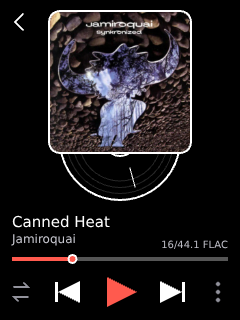
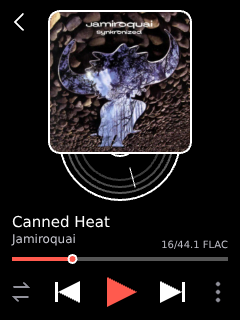
Make Vinyl grooves clearer and crisper

Changed region(s): [[0.2917, 0.4688, 0.7292, 0.625]]

diff --git a/previews/vinyl-layout/style.css b/previews/vinyl-layout/style.css
@@ -1,2 +1,2 @@
 :root{color-scheme:dark;--bg:#101014;--panel:#19191f;--line:#2c2c35;--text:#f4f1ea;--muted:#9b9ba7;--accent:#ff5a4e;--canvas-w:240px;--canvas-h:320px;--zoom:1}
-*{box-sizing:border-box}body{margin:0;background:radial-gradient(1100px 650px at 78% 12%,#24202a 0,transparent 60%),var(--bg);color:var(--text);font-family:Inter,ui-sans-serif,system-ui,-apple-system,"Segoe UI",sans-serif;-webkit-font-smoothing:antialiased}button,select,input{font:inherit}button{cursor:pointer}button:focus-visible,select:focus-visible,input:focus-visible{outline:2px solid #ffad8e;outline-offset:3px}.studio{max-width:1180px;margin:auto;padding:28px 32px 20px}.masthead{display:flex;align-items:center;justify-content:space-between;border-bottom:1px solid var(--line);padding-bottom:22px}.brand{display:flex;align-items:center;gap:9px;color:var(--text);text-decoration:none;font-size:21px;font-weight:750;letter-spacing:-.8px}.brand-mark{display:grid;place-items:center;width:28px;height:28px;border-radius:9px;background:var(--text);color:#15151a;font-size:23px;font-style:italic}.brand-sub{font-size:13px;color:var(--muted);font-weight:450;letter-spacing:0}.pill-status{display:flex;align-items:center;gap:7px;border:1px solid var(--line);border-radius:99px;padding:7px 11px;color:#c9c6cf;font-size:11px}.pill-status i{width:6px;height:6px;background:#9dccae;border-radius:50%;box-shadow:0 0 10px #9dccae66}.intro{padding:40px 0 30px;max-width:640px}.eyebrow{font-size:10px;letter-spacing:2.2px;text-transform:uppercase;color:#c6a994;margin:0 0 15px}h1{font-size:clamp(38px,5vw,62px);line-height:.99;letter-spacing:-2.7px;font-weight:620;margin:0}h1 em{font-family:Georgia,serif;font-weight:400;color:#c9b8aa}.lede{color:var(--muted);font-size:14px;line-height:1.7;max-width:490px;margin:20px 0 0}.workbench{display:grid;grid-template-columns:minmax(420px,1fr) 310px;gap:24px;align-items:start}.stage{min-height:690px;border:1px solid var(--line);border-radius:20px;background:linear-gradient(145deg,#1b1b22,#141419);padding:20px 24px;display:flex;flex-direction:column;align-items:center;overflow:auto}.stage-top{width:100%;display:flex;justify-content:space-between;color:#b7b4bf;font-size:10px;letter-spacing:1px;text-transform:uppercase;margin-bottom:26px}.device-wrap{width:calc(var(--canvas-w)*var(--zoom));height:calc(var(--canvas-h)*var(--zoom));flex:none;position:relative}.device{width:var(--canvas-w);height:var(--canvas-h);transform:scale(var(--zoom));transform-origin:top left;border-radius:16px;overflow:hidden;box-shadow:0 0 0 7px #08080b,0 0 0 8px #3a3942,0 26px 60px #0009}.screen{position:relative;width:var(--canvas-w);height:var(--canvas-h);overflow:hidden;background:#000;color:#fff;font-family:Arial,sans-serif}.back{position:absolute;z-index:8;left:4px;top:4px;width:36px;height:36px;border:0;background:transparent;color:#fff;padding:9px;opacity:.8}.back svg{width:100%;height:100%;fill:none;stroke:currentColor;stroke-width:2.4;stroke-linecap:round;stroke-linejoin:round}.record{position:absolute;border:2px solid #fff;border-radius:50%;background:#000;z-index:1}.groove{position:absolute;border:1px solid #262626;border-radius:50%;left:50%;top:50%;transform:translate(-50%,-50%)}.record-label{position:absolute;left:50%;top:50%;transform:translate(-50%,-50%);border:2px solid #fff;border-radius:50%;background:#000}.shine{position:absolute;transform:rotate(-15deg);transform-origin:center;background:#fff;border-radius:999px}.sleeve{position:absolute;z-index:2;border:2px solid #fff;border-radius:12px;overflow:hidden;background:#17171b;display:grid;place-items:center}.sleeve img{display:block;width:100%;height:100%;object-fit:cover;border-radius:9px}.art-fallback{font-size:62px;color:#8b8b95}.deck{position:absolute;z-index:4;left:0;right:0;bottom:0;padding:4px 12px 4px;display:flex;flex-direction:column;gap:4px;background:transparent}.info{display:flex;justify-content:space-between;gap:6px;height:38px;flex:none}.names{min-width:0;flex:1}.song-title{font-size:15px;line-height:18px;white-space:nowrap;overflow:hidden;text-overflow:ellipsis}.song-artist{font-size:12px;line-height:16px;color:#c7c7cf;white-space:nowrap;overflow:hidden;text-overflow:ellipsis}.side{display:flex;flex-direction:column;align-items:flex-end;flex:none;max-width:100px}.fav{width:34px;height:26px;padding:5px 8px;border:0;background:none;color:#aaa}.fav svg{width:100%;height:100%;fill:none;stroke:currentColor;stroke-width:1.7;stroke-linejoin:round}.fav[aria-pressed=true]{color:#ffd66b}.fav[aria-pressed=true] svg{fill:currentColor}.format{font-size:10px;line-height:12px;color:#bdbdc6;white-space:nowrap}.seek-row{height:10px;display:flex;align-items:center}#seek{appearance:none;width:100%;height:4px;border-radius:4px;background:linear-gradient(to right,var(--accent) 0 28%,#555 28% 100%);margin:0;cursor:pointer}#seek::-webkit-slider-thumb{appearance:none;width:10px;height:10px;border:2px solid #fff;border-radius:50%;background:var(--accent);box-shadow:0 1px 4px #0008}#seek::-moz-range-thumb{width:7px;height:7px;border:2px solid #fff;border-radius:50%;background:var(--accent)}.transport{height:44px;display:flex;align-items:center;justify-content:center;gap:8px;position:relative}.transport button{border:0;background:none;color:#fff;display:grid;place-items:center;padding:0}.transport svg{width:28px;height:28px;fill:currentColor;stroke:currentColor;stroke-width:.5;stroke-linejoin:round}.transport .skip{width:42px;height:42px}.transport .play{width:44px;height:44px;color:var(--accent)}.transport .play svg{width:34px;height:34px}.pause-icon{display:none}.play[aria-pressed=true] .play-icon{display:none}.play[aria-pressed=true] .pause-icon{display:block}.transport .corner{position:absolute;width:36px;height:36px;color:#92929c}.transport .corner svg{width:23px;height:23px;fill:none;stroke:currentColor;stroke-width:1.8;stroke-linecap:round;stroke-linejoin:round}.transport .corner:last-child{right:0}.transport .corner:last-child svg{fill:currentColor;stroke:none}.transport .corner:first-child{left:0}.transport .corner[data-mode="1"],.transport .corner[data-mode="2"]{color:var(--accent)}.toast{position:absolute;z-index:10;left:16px;right:16px;bottom:58px;padding:9px 10px;border:1px solid #444;border-radius:9px;background:#1c1c23ee;color:#eee;text-align:center;font-size:11px;opacity:0;transform:translateY(5px);transition:.18s;pointer-events:none}.toast.show{opacity:1;transform:none}.stage-note{color:#858590;font-size:11px;line-height:1.5;text-align:center;margin:28px 0 0;max-width:340px}.panel{border:1px solid var(--line);border-radius:20px;background:#19191fe6;overflow:hidden}.panel-block{padding:22px;border-bottom:1px solid var(--line)}.panel-block:last-child{border:0}.panel h2{font-size:10px;letter-spacing:1.8px;text-transform:uppercase;color:#b6a899;font-weight:600;margin:0 0 15px}.segmented{display:grid;grid-template-columns:1fr 1fr;gap:5px;padding:4px;background:#101014;border:1px solid #292932;border-radius:11px}.segmented button{border:0;border-radius:7px;background:transparent;color:#9999a5;padding:10px 4px;font-size:12px}.segmented button small{display:block;font-size:9px;margin-top:4px;opacity:.7}.segmented button.active{background:#303039;color:#fff;box-shadow:0 1px 4px #0005}.zoom-line{display:flex;align-items:center;justify-content:space-between;gap:8px;margin-top:16px;color:#aaaab5;font-size:11px}.zoom-line select{max-width:165px;background:#111116;color:#ddd;border:1px solid #34343e;border-radius:7px;padding:7px;font-size:10px}.try-grid{display:grid;grid-template-columns:1fr 1fr;gap:8px}.action{border:1px solid #36363f;border-radius:9px;background:#222229;color:#ddd;padding:11px 6px;font-size:11px;transition:.15s}.action:hover{background:#303039;border-color:#555560}.hint{font-size:10px;line-height:1.6;color:#858590;margin:13px 0 0}.spec dl{margin:0}.spec dl div{margin:0 0 13px}.spec dl div:last-child{margin:0}.spec dt{font-size:10px;color:#858590;margin-bottom:4px}.spec dd{font-size:12px;color:#d5d2da;margin:0;line-height:1.4}footer{color:#666671;font-size:10px;text-align:center;padding:24px 0 0}@media(max-width:850px){.studio{padding:20px}.workbench{grid-template-columns:1fr}.stage{min-height:620px}.panel{display:grid;grid-template-columns:1fr 1fr}.panel-block{border-bottom:0;border-right:1px solid var(--line)}.panel-block:last-child{grid-column:1/-1;border-top:1px solid var(--line)}.intro{padding-top:30px}}@media(max-width:520px){.studio{padding:16px}.brand-sub,.pill-status{display:none}.workbench{display:block}.stage{padding:18px 12px;min-height:570px;border-radius:15px}.panel{display:block;margin-top:16px;border-radius:15px}.panel-block{border-right:0;border-bottom:1px solid var(--line)}h1{letter-spacing:-1.8px}.masthead{padding-bottom:16px}}@media(prefers-reduced-motion:reduce){*{transition:none!important}}
+*{box-sizing:border-box}body{margin:0;background:radial-gradient(1100px 650px at 78% 12%,#24202a 0,transparent 60%),var(--bg);color:var(--text);font-family:Inter,ui-sans-serif,system-ui,-apple-system,"Segoe UI",sans-serif;-webkit-font-smoothing:antialiased}button,select,input{font:inherit}button{cursor:pointer}button:focus-visible,select:focus-visible,input:focus-visible{outline:2px solid #ffad8e;outline-offset:3px}.studio{max-width:1180px;margin:auto;padding:28px 32px 20px}.masthead{display:flex;align-items:center;justify-content:space-between;border-bottom:1px solid var(--line);padding-bottom:22px}.brand{display:flex;align-items:center;gap:9px;color:var(--text);text-decoration:none;font-size:21px;font-weight:750;letter-spacing:-.8px}.brand-mark{display:grid;place-items:center;width:28px;height:28px;border-radius:9px;background:var(--text);color:#15151a;font-size:23px;font-style:italic}.brand-sub{font-size:13px;color:var(--muted);font-weight:450;letter-spacing:0}.pill-status{display:flex;align-items:center;gap:7px;border:1px solid var(--line);border-radius:99px;padding:7px 11px;color:#c9c6cf;font-size:11px}.pill-status i{width:6px;height:6px;background:#9dccae;border-radius:50%;box-shadow:0 0 10px #9dccae66}.intro{padding:40px 0 30px;max-width:640px}.eyebrow{font-size:10px;letter-spacing:2.2px;text-transform:uppercase;color:#c6a994;margin:0 0 15px}h1{font-size:clamp(38px,5vw,62px);line-height:.99;letter-spacing:-2.7px;font-weight:620;margin:0}h1 em{font-family:Georgia,serif;font-weight:400;color:#c9b8aa}.lede{color:var(--muted);font-size:14px;line-height:1.7;max-width:490px;margin:20px 0 0}.workbench{display:grid;grid-template-columns:minmax(420px,1fr) 310px;gap:24px;align-items:start}.stage{min-height:690px;border:1px solid var(--line);border-radius:20px;background:linear-gradient(145deg,#1b1b22,#141419);padding:20px 24px;display:flex;flex-direction:column;align-items:center;overflow:auto}.stage-top{width:100%;display:flex;justify-content:space-between;color:#b7b4bf;font-size:10px;letter-spacing:1px;text-transform:uppercase;margin-bottom:26px}.device-wrap{width:calc(var(--canvas-w)*var(--zoom));height:calc(var(--canvas-h)*var(--zoom));flex:none;position:relative}.device{width:var(--canvas-w);height:var(--canvas-h);transform:scale(var(--zoom));transform-origin:top left;border-radius:16px;overflow:hidden;box-shadow:0 0 0 7px #08080b,0 0 0 8px #3a3942,0 26px 60px #0009}.screen{position:relative;width:var(--canvas-w);height:var(--canvas-h);overflow:hidden;background:#000;color:#fff;font-family:Arial,sans-serif}.back{position:absolute;z-index:8;left:4px;top:4px;width:36px;height:36px;border:0;background:transparent;color:#fff;padding:9px;opacity:.8}.back svg{width:100%;height:100%;fill:none;stroke:currentColor;stroke-width:2.4;stroke-linecap:round;stroke-linejoin:round}.record{position:absolute;border:2px solid #fff;border-radius:50%;background:#000;z-index:1}.groove{position:absolute;border:2px solid #5a5a5a;border-radius:50%;left:50%;top:50%;transform:translate(-50%,-50%)}.groove.g2{border-color:#4a4a4a}.groove.g3{border-color:#3a3a3a}.record-label{position:absolute;left:50%;top:50%;transform:translate(-50%,-50%);border:2px solid #fff;border-radius:50%;background:#000}.shine{position:absolute;transform:rotate(-15deg);transform-origin:center;background:#fff;border-radius:999px}.sleeve{position:absolute;z-index:2;border:2px solid #fff;border-radius:12px;overflow:hidden;background:#17171b;display:grid;place-items:center}.sleeve img{display:block;width:100%;height:100%;object-fit:cover;border-radius:9px}.art-fallback{font-size:62px;color:#8b8b95}.deck{position:absolute;z-index:4;left:0;right:0;bottom:0;padding:4px 12px 4px;display:flex;flex-direction:column;gap:4px;background:transparent}.info{display:flex;justify-content:space-between;gap:6px;height:38px;flex:none}.names{min-width:0;flex:1}.song-title{font-size:15px;line-height:18px;white-space:nowrap;overflow:hidden;text-overflow:ellipsis}.song-artist{font-size:12px;line-height:16px;color:#c7c7cf;white-space:nowrap;overflow:hidden;text-overflow:ellipsis}.side{display:flex;flex-direction:column;align-items:flex-end;flex:none;max-width:100px}.fav{width:34px;height:26px;padding:5px 8px;border:0;background:none;color:#aaa}.fav svg{width:100%;height:100%;fill:none;stroke:currentColor;stroke-width:1.7;stroke-linejoin:round}.fav[aria-pressed=true]{color:#ffd66b}.fav[aria-pressed=true] svg{fill:currentColor}.format{font-size:10px;line-height:12px;color:#bdbdc6;white-space:nowrap}.seek-row{height:10px;display:flex;align-items:center}#seek{appearance:none;width:100%;height:4px;border-radius:4px;background:linear-gradient(to right,var(--accent) 0 28%,#555 28% 100%);margin:0;cursor:pointer}#seek::-webkit-slider-thumb{appearance:none;width:10px;height:10px;border:2px solid #fff;border-radius:50%;background:var(--accent);box-shadow:0 1px 4px #0008}#seek::-moz-range-thumb{width:7px;height:7px;border:2px solid #fff;border-radius:50%;background:var(--accent)}.transport{height:44px;display:flex;align-items:center;justify-content:center;gap:8px;position:relative}.transport button{border:0;background:none;color:#fff;display:grid;place-items:center;padding:0}.transport svg{width:28px;height:28px;fill:currentColor;stroke:currentColor;stroke-width:.5;stroke-linejoin:round}.transport .skip{width:42px;height:42px}.transport .play{width:44px;height:44px;color:var(--accent)}.transport .play svg{width:34px;height:34px}.pause-icon{display:none}.play[aria-pressed=true] .play-icon{display:none}.play[aria-pressed=true] .pause-icon{display:block}.transport .corner{position:absolute;width:36px;height:36px;color:#92929c}.transport .corner svg{width:23px;height:23px;fill:none;stroke:currentColor;stroke-width:1.8;stroke-linecap:round;stroke-linejoin:round}.transport .corner:last-child{right:0}.transport .corner:last-child svg{fill:currentColor;stroke:none}.transport .corner:first-child{left:0}.transport .corner[data-mode="1"],.transport .corner[data-mode="2"]{color:var(--accent)}.toast{position:absolute;z-index:10;left:16px;right:16px;bottom:58px;padding:9px 10px;border:1px solid #444;border-radius:9px;background:#1c1c23ee;color:#eee;text-align:center;font-size:11px;opacity:0;transform:translateY(5px);transition:.18s;pointer-events:none}.toast.show{opacity:1;transform:none}.stage-note{color:#858590;font-size:11px;line-height:1.5;text-align:center;margin:28px 0 0;max-width:340px}.panel{border:1px solid var(--line);border-radius:20px;background:#19191fe6;overflow:hidden}.panel-block{padding:22px;border-bottom:1px solid var(--line)}.panel-block:last-child{border:0}.panel h2{font-size:10px;letter-spacing:1.8px;text-transform:uppercase;color:#b6a899;font-weight:600;margin:0 0 15px}.segmented{display:grid;grid-template-columns:1fr 1fr;gap:5px;padding:4px;background:#101014;border:1px solid #292932;border-radius:11px}.segmented button{border:0;border-radius:7px;background:transparent;color:#9999a5;padding:10px 4px;font-size:12px}.segmented button small{display:block;font-size:9px;margin-top:4px;opacity:.7}.segmented button.active{background:#303039;color:#fff;box-shadow:0 1px 4px #0005}.zoom-line{display:flex;align-items:center;justify-content:space-between;gap:8px;margin-top:16px;color:#aaaab5;font-size:11px}.zoom-line select{max-width:165px;background:#111116;color:#ddd;border:1px solid #34343e;border-radius:7px;padding:7px;font-size:10px}.try-grid{display:grid;grid-template-columns:1fr 1fr;gap:8px}.action{border:1px solid #36363f;border-radius:9px;background:#222229;color:#ddd;padding:11px 6px;font-size:11px;transition:.15s}.action:hover{background:#303039;border-color:#555560}.hint{font-size:10px;line-height:1.6;color:#858590;margin:13px 0 0}.spec dl{margin:0}.spec dl div{margin:0 0 13px}.spec dl div:last-child{margin:0}.spec dt{font-size:10px;color:#858590;margin-bottom:4px}.spec dd{font-size:12px;color:#d5d2da;margin:0;line-height:1.4}footer{color:#666671;font-size:10px;text-align:center;padding:24px 0 0}@media(max-width:850px){.studio{padding:20px}.workbench{grid-template-columns:1fr}.stage{min-height:620px}.panel{display:grid;grid-template-columns:1fr 1fr}.panel-block{border-bottom:0;border-right:1px solid var(--line)}.panel-block:last-child{grid-column:1/-1;border-top:1px solid var(--line)}.intro{padding-top:30px}}@media(max-width:520px){.studio{padding:16px}.brand-sub,.pill-status{display:none}.workbench{display:block}.stage{padding:18px 12px;min-height:570px;border-radius:15px}.panel{display:block;margin-top:16px;border-radius:15px}.panel-block{border-right:0;border-bottom:1px solid var(--line)}h1{letter-spacing:-1.8px}.masthead{padding-bottom:16px}}@media(prefers-reduced-motion:reduce){*{transition:none!important}}

diff --git a/previews/vinyl-layout/app.js b/previews/vinyl-layout/app.js
@@ -40,9 +40,12 @@ function renderGeometry() {
   setBox($('sleeve'), b.artX, b.artY, b.side, b.side);
   setBox($('record'), b.recordX, b.recordY, b.d, b.d);
   $('deck').style.top = `${b.deckY}px`;
-  [0.88, 0.78, 0.68].forEach((ratio, i) => {
+  // Clean native-resolution grooves: even diameters and a 2 px lifted stroke,
+  // mirroring VINYL_GROOVE_* in vinylayout.h. No bitmap texture is scaled.
+  [0, 1, 2].forEach((i) => {
     const g = document.querySelector(`.g${i + 1}`);
-    const gd = b.d - Math.floor(b.d * (12 + i * 10) / 100);
+    let gd = b.d - Math.floor(b.d * (12 + i * 10) / 100);
+    gd &= ~1; if (gd < 4) gd = 4;
     g.style.width = `${gd}px`; g.style.height = `${gd}px`;
   });
   const label = Math.floor(b.d * .28);
@@ -130,7 +133,8 @@ $('exportBtn').onclick = async () => {
     if (stroke) { ctx.strokeStyle = stroke; ctx.lineWidth = lw; ctx.stroke(); }
   };
   circle(b.recordX, b.recordY, b.d, '#000', '#fff');
-  [0, 1, 2].forEach(i => { const gd = b.d - Math.floor(b.d * (12 + i * 10) / 100); circle(b.recordX + (b.d - gd) / 2, b.recordY + (b.d - gd) / 2, gd, null, '#262626', 1); });
+  const grooveColors = ['#5a5a5a', '#4a4a4a', '#3a3a3a'];
+  [0, 1, 2].forEach(i => { let gd = b.d - Math.floor(b.d * (12 + i * 10) / 100); gd &= ~1; if (gd < 4) gd = 4; circle(b.recordX + (b.d - gd) / 2, b.recordY + (b.d - gd) / 2, gd, null, grooveColors[i], 2); });
   const ld = Math.floor(b.d * .28); circle(b.recordX + (b.d - ld) / 2, b.recordY + (b.d - ld) / 2, ld, '#000', '#fff');
   const markW = Math.max(1, Math.round(b.d / 173)), markH = Math.max(2, Math.floor(b.d * .18));
   const markX1 = Math.floor(b.d * .56), markY1 = Math.floor(b.d * .71), markDx = Math.max(1, Math.floor(b.d * .05));

diff --git a/previews/vinyl-layout/index.html b/previews/vinyl-layout/index.html
@@ -79,7 +79,7 @@
         </div>
         <div class="panel-block spec">
           <h2>On the device</h2>
-          <dl><div><dt>Layout</dt><dd>Music → Display options → Vinyl</dd></div><div><dt>Sleeve</dt><dd>2 px rim · 12 px corners</dd></div><div><dt>Record</dt><dd>86% of sleeve · static</dd></div><div><dt>Deck</dt><dd>Names, seek, transport</dd></div></dl>
+          <dl><div><dt>Layout</dt><dd>Music → Display options → Vinyl</dd></div><div><dt>Sleeve</dt><dd>2 px rim · 12 px corners</dd></div><div><dt>Record</dt><dd>86% of sleeve · static · 2 px grooves</dd></div><div><dt>Deck</dt><dd>Names, seek, transport</dd></div></dl>
         </div>
       </aside>
     </section>

diff --git a/sonix-player/tests/ui/test_vinylayout.c b/sonix-player/tests/ui/test_vinylayout.c
@@ -62,6 +62,30 @@ static void check_pressing_mark(const vinyl_record_t *record, const vinyl_box_t 
 	assert(rotated.x1 >= disc.x1 && rotated.x2 <= disc.x2);
 }
 
+static void check_grooves(const vinyl_record_t *record, const vinyl_box_t *b) {
+	lv_area_t disc;
+	lv_obj_get_coords(record->disc, &disc);
+	for (int i = 0; i < VINYL_GROOVE_COUNT; i++) {
+		lv_obj_t *g = record->grooves[i];
+		assert(!lv_obj_is_hidden(g));
+		assert(lv_obj_get_style_border_width(g, 0) == VINYL_GROOVE_WIDTH);
+		assert(lv_obj_get_style_border_opa(g, 0) == LV_OPA_COVER);
+		/* Lifted above the old 0x26 grey so the exposed semicircle reads on
+		 * the V1, but still far below the white rim. */
+		assert(lv_color_brightness(lv_obj_get_style_border_color(g, 0)) >= 0x30);
+		int expected = b->record_d - b->record_d * (VINYL_GROOVE_FIRST_PERCENT + i * VINYL_GROOVE_STEP_PERCENT) / 100;
+		expected &= ~1;
+		if (expected < VINYL_GROOVE_WIDTH * 2)
+			expected = VINYL_GROOVE_WIDTH * 2;
+		assert(lv_obj_get_width(g) == expected);
+		assert(lv_obj_get_height(g) == expected);
+		lv_area_t ga;
+		lv_obj_get_coords(g, &ga);
+		assert(ga.x1 + ga.x2 == disc.x1 + disc.x2);
+		assert(ga.y1 + ga.y2 == disc.y1 + disc.y2);
+	}
+}
+
 static void check_nested_placement(lv_obj_t *panel, lv_obj_t *sleeve, vinyl_record_t *record, const vinyl_box_t *b, int screen_w) {
 	/* Seed the anchors the standard layout leaves behind. A bare set_pos()
 	 * on a TOP_MID sleeve adds art_x to the centred anchor a second time:
@@ -88,6 +112,7 @@ static void check_nested_placement(lv_obj_t *panel, lv_obj_t *sleeve, vinyl_reco
 	assert(sleeve_area.x1 + sleeve_area.x2 == disc_area.x1 + disc_area.x2);
 	assert(lv_obj_get_index(record->disc) < lv_obj_get_index(panel));
 	check_pressing_mark(record, b, sleeve);
+	check_grooves(record, b);
 
 	/* A return through the standard compact placer must not reintroduce the
 	 * centred anchor, and the lyrics travel must move sleeve and record as
@@ -190,6 +215,6 @@ int main(void) {
 	 * 240x320, and a wider panel is not a firmware path. */
 	vinyl_box_t b = vinyl_layout_box(360, 640, vinyl_deck_height(34));
 	check_nested_placement(panel, sleeve, &record, &b, 360);
-	puts("PASS vinyl layout (V1, eight text metrics, reference-slanted pressing mark, no deck/info/seek/transport overlap, tiny-screen fallback, repeated apply/take-back, nested-panel alignment and black ground)");
+	puts("PASS vinyl layout (V1, eight text metrics, reference-slanted pressing mark, no deck/info/seek/transport overlap, tiny-screen fallback, repeated apply/take-back, nested-panel alignment, visible clean grooves and black ground)");
 	return 0;
 }

diff --git a/sonix-player/src/gui/nowplaying/vinylayout.c b/sonix-player/src/gui/nowplaying/vinylayout.c
@@ -107,11 +107,14 @@ void vinyl_record_build(vinyl_record_t *r, lv_obj_t *parent) {
 	lv_obj_set_style_bg_opa(r->disc, LV_OPA_COVER, 0);
 	lv_obj_set_style_border_width(r->disc, VINYL_ART_BORDER, 0);
 	lv_obj_set_style_border_opa(r->disc, LV_OPA_COVER, 0);
-	/* Quiet concentric grooves, not a bright target pattern. */
-	for (int i = 0; i < 3; i++) {
+	/* Clean HD-style grooves: a 2 px native stroke in lifted greys, bright
+	 * enough to read on the V1's RGB565 panel without becoming a target. The
+	 * outer ring is strongest and the inner rings step down for depth. */
+	static const uint32_t groove_rgb[VINYL_GROOVE_COUNT] = {0x5a5a5a, 0x4a4a4a, 0x3a3a3a};
+	for (int i = 0; i < VINYL_GROOVE_COUNT; i++) {
 		r->grooves[i] = plain_circle(r->disc);
-		lv_obj_set_style_border_width(r->grooves[i], 1, 0);
-		lv_obj_set_style_border_color(r->grooves[i], lv_color_make(38, 38, 38), 0);
+		lv_obj_set_style_border_width(r->grooves[i], VINYL_GROOVE_WIDTH, 0);
+		lv_obj_set_style_border_color(r->grooves[i], lv_color_hex(groove_rgb[i]), 0);
 		lv_obj_set_style_border_opa(r->grooves[i], LV_OPA_COVER, 0);
 	}
 	r->label = plain_circle(r->disc);
@@ -133,10 +136,14 @@ void vinyl_record_apply(vinyl_record_t *r, const vinyl_box_t *b, lv_color_t rim)
 	lv_obj_set_size(r->disc, d, d);
 	lv_obj_align(r->disc, LV_ALIGN_TOP_LEFT, b->record_x, b->record_y);
 	lv_obj_set_style_border_color(r->disc, rim, 0);
-	for (int i = 0; i < 3; i++) {
-		int gd = d - d * (12 + i * 10) / 100;
+	for (int i = 0; i < VINYL_GROOVE_COUNT; i++) {
+		int gd = d - d * (VINYL_GROOVE_FIRST_PERCENT + i * VINYL_GROOVE_STEP_PERCENT) / 100;
+		gd &= ~1; /* whole-pixel centring keeps the ring crisp, not dotted */
+		if (gd < VINYL_GROOVE_WIDTH * 2)
+			gd = VINYL_GROOVE_WIDTH * 2;
 		lv_obj_set_size(r->grooves[i], gd, gd);
 		lv_obj_center(r->grooves[i]);
+		lv_obj_set_hidden(r->grooves[i], gd >= d);
 	}
 	int ld = d * 28 / 100;
 	lv_obj_set_size(r->label, ld, ld);

diff --git a/sonix-player/src/gui/nowplaying/vinylayout.h b/sonix-player/src/gui/nowplaying/vinylayout.h
@@ -18,6 +18,14 @@
 #define VINYL_RECESS_PERCENT 10
 #define VINYL_PEEK_PERCENT (VINYL_RECORD_PERCENT / 2 - VINYL_RECESS_PERCENT)
 
+/* The exposed lower arc reads as a clean pressing, not a faint dotted target:
+ * three native-resolution rings, lifted neutral greys and an even diameter so
+ * the 2 px stroke lands on whole pixels. No bitmap is scaled onto the panel. */
+#define VINYL_GROOVE_COUNT 3
+#define VINYL_GROOVE_WIDTH 2
+#define VINYL_GROOVE_FIRST_PERCENT 12
+#define VINYL_GROOVE_STEP_PERCENT 10
+
 /* The reference pressing mark: a thin rounded stroke leaning down-right.
  * Endpoints are percentages of the record diameter, measured from the supplied
  * 460x608 mockup (record ~346 px, stroke ~65 px at ~15 degrees from vertical).
@@ -56,7 +64,7 @@ vinyl_box_t vinyl_layout_box(int screen_w, int screen_h, int deck_h);
 
 typedef struct {
 	lv_obj_t *disc;
-	lv_obj_t *grooves[3];
+	lv_obj_t *grooves[VINYL_GROOVE_COUNT];
 	lv_obj_t *label;
 	lv_obj_t *shine;
 } vinyl_record_t;

diff --git a/FEATURES.md b/FEATURES.md
@@ -101,7 +101,7 @@
 - **Album art shape** - choose Rounded, Square or Vinyl (a circle) in Settings → Music → Display options. Applies to the inset sleeves in Standard, Waveform and Alternative; edge-to-edge layouts retain their own shape.
 - **Poster layout** - the sleeve scaled to the edges of the screen without the crop Immersive takes: the whole picture from side to side at the width of the panel, held at the top with square corners and nothing stretched, and the deck below it on its own opaque ground rather than over the artwork - as much of the sleeve as the deck leaves room for, at the largest size the screen allows. Anything holding artwork gets one, and without a picture the empty sleeve stands edge to edge in the cover's colour with the controls in the theme's ink; the favourite marker is a heart on this deck, kept a step smaller than the star it stands in for; and the foot of the sleeve fades into the deck over its last pixels instead of meeting the controls at a line.
 - **Album Art Max layout** - the sleeve instead of the controls: the picture at the width of the panel with the status bar kept above it, the format, the shuffle mode, the menu and the heart in one row under that bar, and a minimal scrub bar along the foot of the artwork, with the artist, the track name and the place in the queue on a black strip below. There is no transport on the page - the physical keys are the transport, which the status bar's play/pause mark confirms - and double-tapping the left or right side of the picture is the previous or next track. Nothing is written over the photograph and the strip carries everything that names the track: the artist first, in the record's colour, then the title in the theme's ink, each given the width of its own words so that neither scrolls unless it has to. The scrub bar, the heart, the format line and the queue count are all drawn in the colour of the album art, so the page belongs to the record rather than to the theme. The bar is a thin band of colour that deepens towards the playhead, which is a tab rather than a knob. The two clocks appear in the middle of the picture, large, only while a track is being scrubbed (a finger on the bar or a held skip key), with the artwork dimmed behind them. *Scrub bar on the left* moves the bar up the left edge instead, where the thumb travels vertically. The V1's panel only, where every number in it is measured; the other boards keep the standard arrangement.
-- **Vinyl layout** - a thin white rounded border around the sleeve, with a static black record peeking out below it and a compact deck (names, seek bar and transport) underneath. The record's small pressing mark matches the reference: a thin rounded stroke leaning down to the right in the exposed lower arc. The exposed record ends above the deck with a clear gap, so it never overlaps the text, seek bar or buttons. The record is drawn once per layout/theme change rather than animated, to keep redraws and battery use down. The V1's 240×320 panel only.
+- **Vinyl layout** - a thin white rounded border around the sleeve, with a static black record peeking out below it and a compact deck (names, seek bar and transport) underneath. The record's exposed lower arc has clean 2 px concentric grooves in lifted greys, and its small pressing mark matches the reference: a thin rounded stroke leaning down to the right in the exposed lower arc. The exposed record ends above the deck with a clear gap, so it never overlaps the text, seek bar or buttons. The record is drawn once per layout/theme change rather than animated, to keep redraws and battery use down. The V1's 240×320 panel only.
 - **Player layout** - Standard, Waveform, Alternative, Immersive, Poster, Album Art Max or Vinyl, in Settings → Music → Display options; the choice is remembered across restarts.
 - **Tint controls from album art** - optional, off by default, in the same Display options: the play/pause button and the played part of the progress bar take the main colour of the playing track's artwork, in every layout, while previous and next keep their colour. The colour is the one already worked out from the decoded artwork, so nothing extra is decoded and playback is untouched; a track with no artwork keeps the theme's colours.
 - **Legacy play button** - optional, off by default, in the same Display options: the play/pause button sits on a filled circle as big as the button, as it did in the original player, instead of standing as a bare glyph. The circle is white over artwork and in the dark palettes and the palette's grey on the light page, with the glyph in the accent. Where the accent would wash out on it - a yellow, lime or green accent, Tokyo Night's violet, OLED's white - the circle takes the accent and the glyph turns black (or white where that reads better), and Amber on Black and OLED always fill it with their colour. With album-derived tint (including Waveform), the circle stays white and the glyph takes the album colour, even if the tint is pale. A finger on it darkens it.

diff --git a/sonix-player/tests/README.md b/sonix-player/tests/README.md
@@ -43,7 +43,7 @@ The non-UI suites require only a C compiler, Make and Python 3 (plus standard pt
 
 The `waveform-overlay` UI test checks that both scrolling text pills stay clear of the smaller favourite button, across artwork shapes, font sizes and missing-artist metadata.
 
-The `vinylayout` UI test checks the Vinyl sleeve/record arithmetic at 240×320 across text sizes, the reference-slanted pressing mark in the exposed lower-right arc, the tiny-screen fallback, a no-overlap guarantee against the whole deck (including transparent info/seek rows), repeated apply/take-back and sleeve-over-record layering on the real LVGL renderer. It does not link the player's audio/network shell.
+The `vinylayout` UI test checks the Vinyl sleeve/record arithmetic at 240×320 across text sizes, the reference-slanted pressing mark in the exposed lower-right arc, the visible even-diameter 2 px grooves, the tiny-screen fallback, a no-overlap guarantee against the whole deck (including transparent info/seek rows), repeated apply/take-back and sleeve-over-record layering on the real LVGL renderer. It does not link the player's audio/network shell.
 
 The `playerdeck` UI test exercises the V1 deck's real LVGL flex layout while switching between Standard and Waveform, including large font metrics and the fallback when waveform allocation fails. It checks row spacing and that every playback button stays clear of the bottom edge.
 

diff --git a/previews/vinyl-layout/README.md b/previews/vinyl-layout/README.md
@@ -14,7 +14,9 @@ scale changes only the browser magnification. **Save PNG** exports the screen
 at the selected canvas's exact pixel dimensions.
 
 The demo transport, seek bar, favourite, repeat and missing-art fallback are
-interactive but play no audio. The record is intentionally static, with its small pressing mark matching the reference: a thin rounded stroke leaning down to the right in the exposed lower arc. The exposed arc ends above the deck with a clear gap; it does not overlap the names, seek bar or transport. The album
+interactive but play no audio. The record is intentionally static, with clean
+2 px concentric grooves in lifted greys so the exposed lower semicircle reads
+clearly at the V1's native resolution, and with its small pressing mark matching the reference: a thin rounded stroke leaning down to the right in the exposed lower arc. The exposed arc ends above the deck with a clear gap; it does not overlap the names, seek bar or transport. The album
 photograph is cropped from the user's reference for demonstration only and is
 not shipped as a firmware asset.
 
